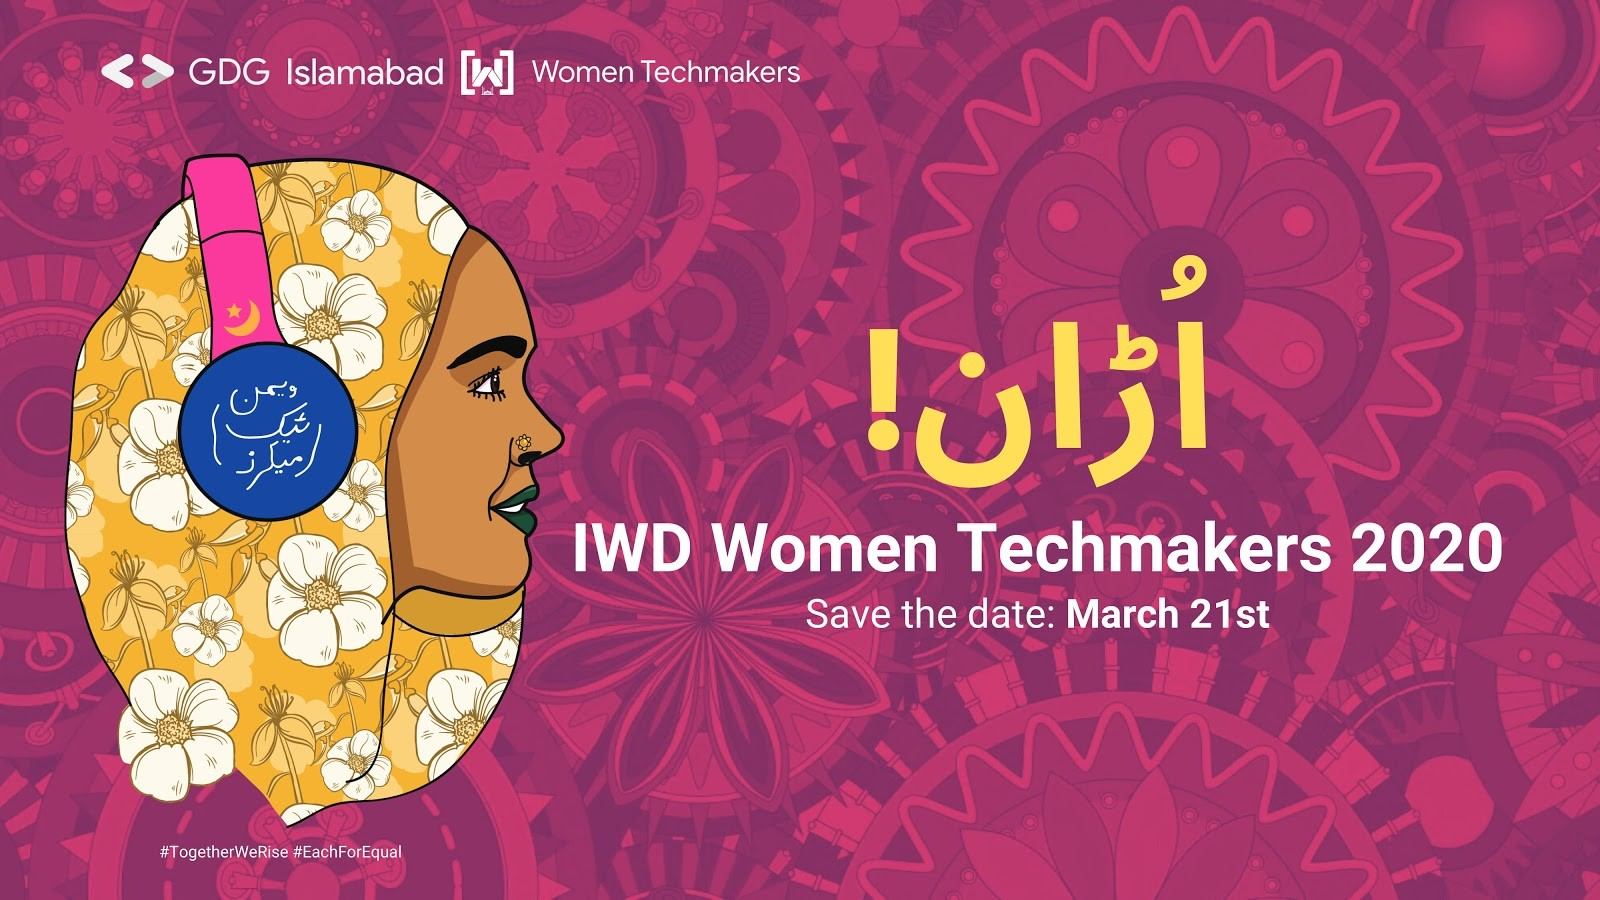
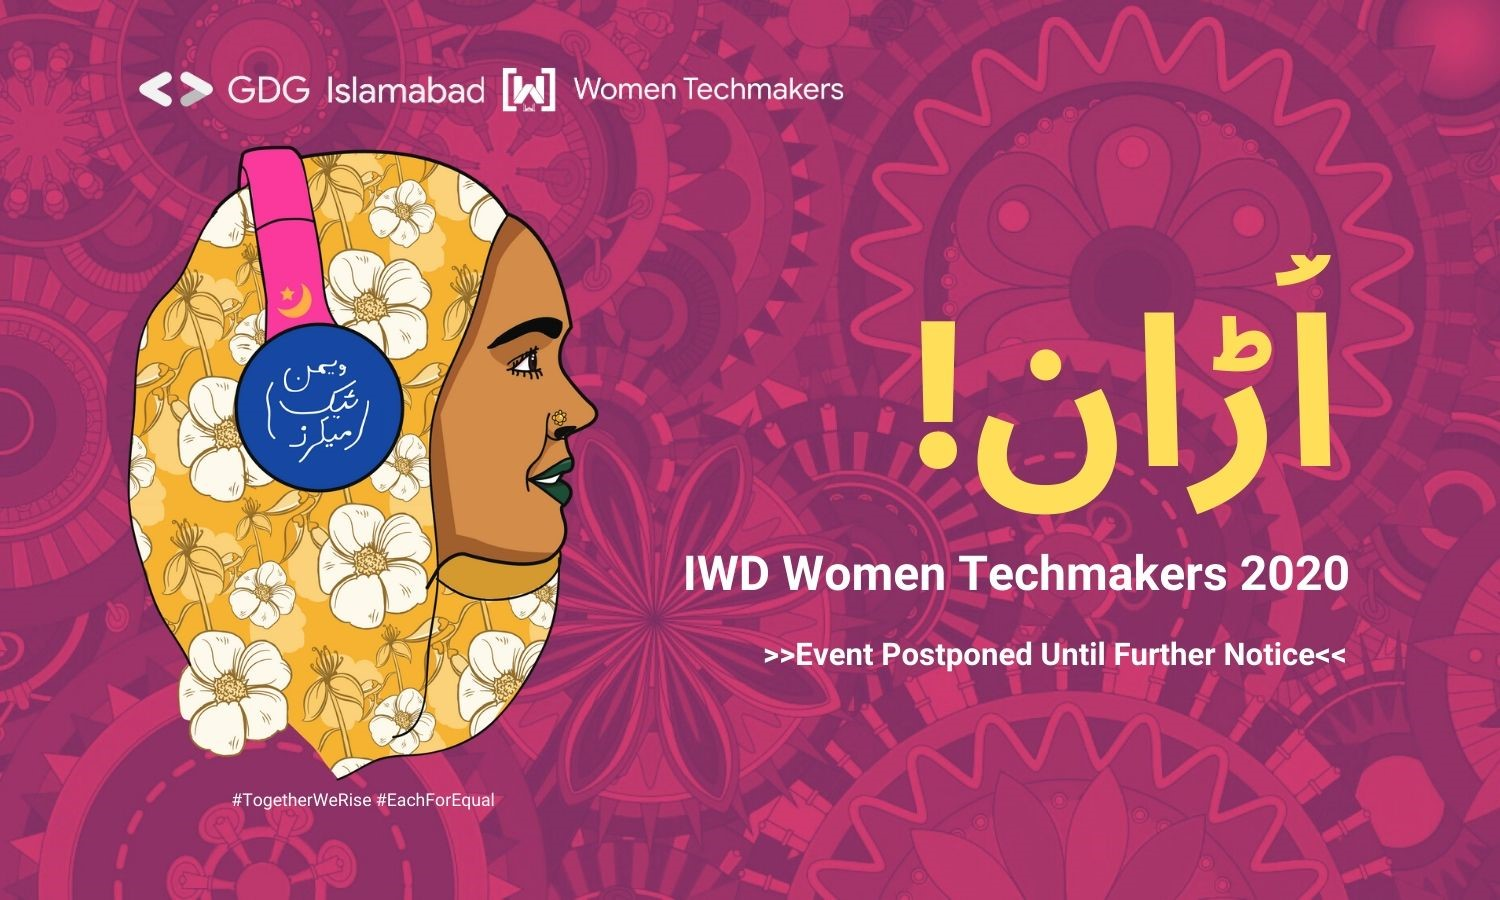
Updated Event Cover

diff --git a/src/Components/FeaturedEvent/index.js b/src/Components/FeaturedEvent/index.js
@@ -11,7 +11,8 @@ const index = () => {
       </Grid>
       <Grid item sm={12} md={6}>
         <div className={classes.featured_content}>
-          <p className={classes.date}>21/03/2020</p>
+          {/* <p className={classes.date}>21/03/2020</p> */}
+          <p className={classes.date}>POSTPONED</p>
           <h2 className={classes.hero_head}>IWD Women Techmakers 2020</h2>
           {/* <div className={classes.location}>
             <LocationIcon className={classes.location_icon} />
